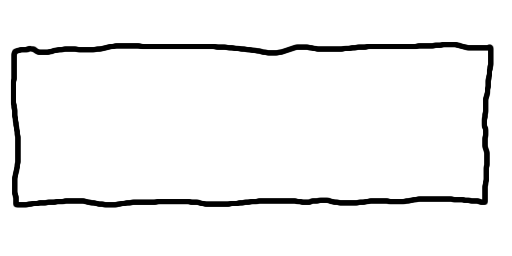
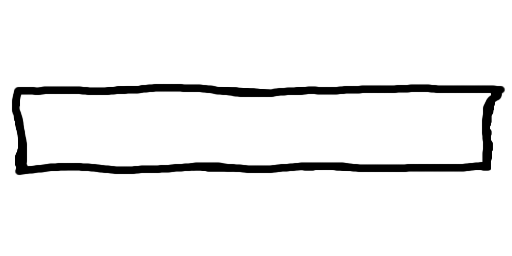
* Fixing Animations

Changed region(s): [[0.0, 0.1562, 1.0, 0.8125]]

diff --git a/Assets/Code/UI/Minigames/ChargingMinigameUI.cs b/Assets/Code/UI/Minigames/ChargingMinigameUI.cs
@@ -38,6 +38,7 @@ public class ChargingMinigameUI : MonoBehaviour
     public void Show()
     {
         m_rootObject.SetActive(true);
+        ShowIdle();
     }
 
     public void Hide()
@@ -50,6 +51,18 @@ public class ChargingMinigameUI : MonoBehaviour
         m_rootObject.SetActive(false);
     }
 
+    private void ShowIdle()
+    {
+        SetState(State.Idle);
+        //reset
+        nextButton.rectTransform.anchoredPosition = new Vector2(buttonStartPosX, nextButton.rectTransform.anchoredPosition.y);
+        nextButtonCanvasGroup.alpha = 0;
+        nextButton.rectTransform.localScale = Vector3.one;
+
+        //nextButtonCanvasGroup.DOFade(0.5f, 1);
+        chargingMinigameButton.SetUnkwnownState();
+    }
+
     public void StartNextButtonAnimation(InputButton btn, float fadeInDuration, float fadeOutDuration)
     {
         Debug.Assert(fadeInDuration > 0);
@@ -60,6 +73,8 @@ public class ChargingMinigameUI : MonoBehaviour
         //
         nextButton.rectTransform.anchoredPosition = new Vector2(buttonStartPosX, nextButton.rectTransform.anchoredPosition.y);
         nextButtonCanvasGroup.alpha = 0;
+        nextButton.rectTransform.localScale = Vector3.one;
+        //staging in
         SetState(State.ButtonFadeIn);
 
         if (m_moveSequence != null)

diff --git a/Assets/Code/UI/Minigames/BlasterMinigameUI.cs b/Assets/Code/UI/Minigames/BlasterMinigameUI.cs
@@ -10,10 +10,12 @@ public sealed class BlasterMinigameUI : MonoBehaviour
     [SerializeField] private GameObject m_rootObject;
 
     [Header("Animation Config")]
+    [SerializeField] private float fadeInDuration;
     [SerializeField] private float targetInitialScale;
     [SerializeField] private float targetEndScale;
     [SerializeField] private float scaleDuration;
 
+    [SerializeField] private CanvasGroup canvasGroup;
     [SerializeField] private MinigameButton m_btn;
     [SerializeField] private Image m_btnImg;
     [SerializeField] private RectTransform targetImage;
@@ -86,7 +88,12 @@ public sealed class BlasterMinigameUI : MonoBehaviour
     private void AnimateCircle()
     {
         targetImage.transform.localScale = new Vector3(targetInitialScale, targetInitialScale, targetInitialScale);
+
+        canvasGroup.alpha = 0;
+        canvasGroup.DOFade(1, fadeInDuration);
+
         targetTween = targetImage.transform.DOScale(targetEndScale, scaleDuration);
+        targetTween.SetEase(Ease.InOutSine);
         targetTween.onComplete = OnCircleScaleComplete;
     }
 

diff --git a/Assets/Code/Minigames/ChargingMinigame.cs b/Assets/Code/Minigames/ChargingMinigame.cs
@@ -25,10 +25,11 @@ public class ChargingMinigame : Minigame
         base.StartMinigame();
         Setup();
         SetState(State.ButtonAnimating);
-        ShowNextButton();
         m_chargingMinigameUI.Show();
         m_chargingMinigameUI.OnButtonAnimationStateChanged += ChargingMinigameAnimator_OnButtonAnimationStateChanged;
         m_playerInputSender.OnButtonDownEvent += PlayerInput_OnButtonDownEvent;
+
+        StartCoroutine(ShowNextAfterDelay(1));
     }
     
     public override void StopMinigame()
@@ -57,6 +58,12 @@ public class ChargingMinigame : Minigame
     #endregion
 
     #region MINIGAME LOGIC
+    private IEnumerator ShowNextAfterDelay(float delay)
+    {
+        yield return new WaitForSeconds(delay);
+        ShowNextButton();
+    }
+
     private void ShowNextButton()
     {
         InputButton next = AdvanceQueue();//gets you the nws dude

diff --git a/Assets/Code/Minigames/RepairMinigame.cs b/Assets/Code/Minigames/RepairMinigame.cs
@@ -21,13 +21,16 @@ public sealed class RepairMinigame : Minigame
 
     public override void StartMinigame()
     {
-        base.StartMinigame();
-        targetButton = GetRandomInputButton();
-        SetState(State.Repairing);
-        repairCounter = 0;
-        repairMinigameUI.Show();
-        repairMinigameUI.OnMinigameStart(targetButton);
-        m_playerInputSender.OnButtonDownEvent += PlayerInput_OnButtonDownEvent;
+        if(!IsActive)
+        {
+            base.StartMinigame();
+            targetButton = GetRandomInputButton();
+            SetState(State.Repairing);
+            repairCounter = 0;
+            repairMinigameUI.Show();
+            repairMinigameUI.OnMinigameStart(targetButton);
+            m_playerInputSender.OnButtonDownEvent += PlayerInput_OnButtonDownEvent;
+        }
     }
 
     public override void StopMinigame()

diff --git a/Assets/Code/Planet.cs b/Assets/Code/Planet.cs
@@ -101,6 +101,8 @@ public class Planet : MonoBehaviour
     
     public void TransitionTo(State newState)
     {
+        if (state == newState)
+            return;
         if (state != State.IDLE) //This could potentially create issues, YET JAM
         {
             this.activeMinigame.StopMinigame();

diff --git a/Assets/Code/UI/Minigames/MinigameButton.cs b/Assets/Code/UI/Minigames/MinigameButton.cs
@@ -11,4 +11,9 @@ public class MinigameButton : MonoBehaviour
     {
         buttonText.text = btn.ToString();
     }
+
+    public void SetUnkwnownState()
+    {
+        buttonText.text = "?";
+    }
 }
